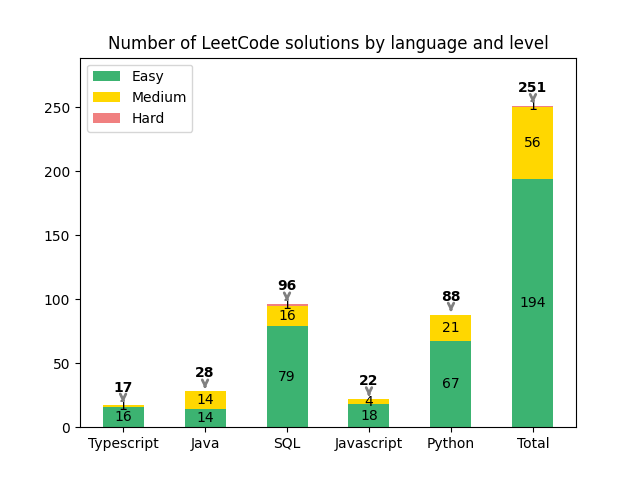
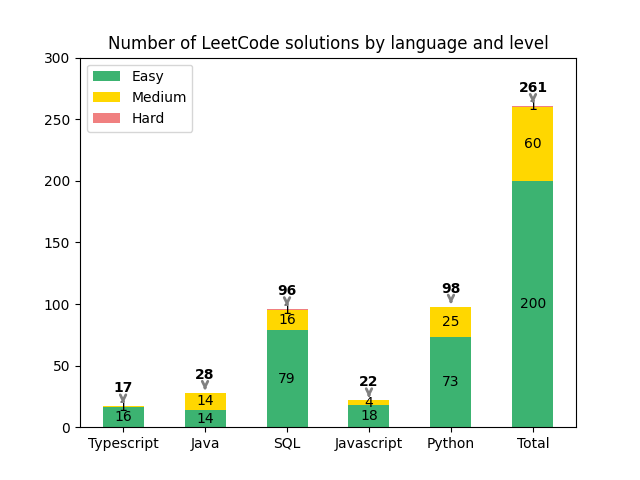
[auto] Update README after merge to main (R.N: 29)
Push commit: 26f0554a840c0408888ab21dfb6f61fbe99cb6fe

Files moved: 7

Workflow: Auto-update README after push to main

Triggered on: push

Run Link: https://github.com/e0406370/reetkode/actions/runs/15275611887

diff --git a/README.md b/README.md
@@ -28,6 +28,7 @@ This README was generated using the following custom-built **Python** scripts: [
 |**77**|🟨 Medium|⚙|[Combinations](https://lcid.cc/77)|<a href="java/lcm_p0077_combinations.java"><img src="icons/java-original.svg" height="25"></a>|
 |**128**|🟨 Medium|⚙|[Longest Consecutive Sequence](https://lcid.cc/128)|<a href="java/lcm_p0128_longest_consecutive_sequence.java"><img src="icons/java-original.svg" height="25"></a>|
 |**136**|🟩 Easy|⚙|[Single Number](https://lcid.cc/136)|<a href="java/lce_p0136_single_number.java"><img src="icons/java-original.svg" height="25"></a>|
+|**151**|🟨 Medium|⚙|[Reverse Words In A String](https://lcid.cc/151)|<a href="python/lcm_p0151_reverse_words_in_a_string.py"><img src="icons/python-original.svg" height="25"></a>|
 |**175**|🟩 Easy|🛢|[Combine Two Tables](https://lcid.cc/175)|<a href="sql/lce_p0175_combine_two_tables_mysql.sql"><img src="icons/mysql-original.svg" height="25"></a> <a href="sql/lce_p0175_combine_two_tables_postgresql.sql"><img src="icons/postgresql-original.svg" height="25"></a>|
 |**176**|🟨 Medium|🛢|[Second Highest Salary](https://lcid.cc/176)|<a href="sql/lcm_p0176_second_highest_salary_mysql.sql"><img src="icons/mysql-original.svg" height="25"></a>|
 |**178**|🟨 Medium|🛢|[Rank Scores](https://lcid.cc/178)|<a href="sql/lcm_p0178_rank_scores_mysql.sql"><img src="icons/mysql-original.svg" height="25"></a>|
@@ -40,13 +41,16 @@ This README was generated using the following custom-built **Python** scripts: [
 |**196**|🟩 Easy|🛢|[Delete Duplicate Emails](https://lcid.cc/196)|<a href="sql/lce_p0196_delete_duplicate_emails_postgresql.sql"><img src="icons/postgresql-original.svg" height="25"></a> <a href="sql/lce_p0196_delete_duplicate_emails_sqlserver.sql"><img src="icons/sqlserver-original.svg" height="25"></a>|
 |**197**|🟩 Easy|🛢|[Rising Temperature](https://lcid.cc/197)|<a href="sql/lce_p0197_rising_temperature_mysql.sql"><img src="icons/mysql-original.svg" height="25"></a> <a href="sql/lce_p0197_rising_temperature_postgresql.sql"><img src="icons/postgresql-original.svg" height="25"></a>|
 |**217**|🟩 Easy|⚙|[Contains Duplicate](https://lcid.cc/217)|<a href="java/lce_p0217_contains_duplicate.java"><img src="icons/java-original.svg" height="25"></a>|
-|**238**|🟨 Medium|⚙|[Product Of Array Except Self](https://lcid.cc/238)|<a href="java/lcm_p0238_product_of_array_except_self.java"><img src="icons/java-original.svg" height="25"></a>|
+|**238**|🟨 Medium|⚙|[Product Of Array Except Self](https://lcid.cc/238)|<a href="java/lcm_p0238_product_of_array_except_self.java"><img src="icons/java-original.svg" height="25"></a> <a href="python/lcm_p0238_product_of_array_except_self.py"><img src="icons/python-original.svg" height="25"></a>|
 |**242**|🟩 Easy|⚙|[Valid Anagram](https://lcid.cc/242)|<a href="java/lce_p0242_valid_anagram.java"><img src="icons/java-original.svg" height="25"></a> <a href="python/lce_p0242_valid_anagram.py"><img src="icons/python-original.svg" height="25"></a>|
 |**271**|🟨 Medium|⚙|[Encode And Decode Strings](https://lcid.cc/271)|<a href="java/lcm_p0271_encode_and_decode_strings.java"><img src="icons/java-original.svg" height="25"></a>|
 |**283**|🟩 Easy|⚙|[Move Zeroes](https://lcid.cc/283)|<a href="python/lce_p0283_move_zeroes.py"><img src="icons/python-original.svg" height="25"></a>|
+|**334**|🟨 Medium|⚙|[Increasing Triplet Subsequence](https://lcid.cc/334)|<a href="python/lcm_p0334_increasing_triplet_subsequence.py"><img src="icons/python-original.svg" height="25"></a>|
+|**345**|🟩 Easy|⚙|[Reverse Vowels Of A String](https://lcid.cc/345)|<a href="python/lce_p0345_reverse_vowels_of_a_string.py"><img src="icons/python-original.svg" height="25"></a>|
 |**347**|🟨 Medium|⚙|[Top K Frequent Elements](https://lcid.cc/347)|<a href="java/lcm_p0347_top_k_frequent_elements.java"><img src="icons/java-original.svg" height="25"></a>|
 |**387**|🟩 Easy|⚙|[First Unique Character String](https://lcid.cc/387)|<a href="python/lce_p0387_first_unique_character_string.py"><img src="icons/python-original.svg" height="25"></a>|
 |**389**|🟩 Easy|⚙|[Find The Difference](https://lcid.cc/389)|<a href="python/lce_p0389_find_the_difference.py"><img src="icons/python-original.svg" height="25"></a>|
+|**443**|🟨 Medium|⚙|[String Compression](https://lcid.cc/443)|<a href="python/lcm_p0443_string_compression.py"><img src="icons/python-original.svg" height="25"></a>|
 |**459**|🟩 Easy|⚙|[Repeated Substring Pattern](https://lcid.cc/459)|<a href="python/lce_p0459_repeated_substring_pattern.py"><img src="icons/python-original.svg" height="25"></a>|
 |**507**|🟩 Easy|⚙|[Perfect Number](https://lcid.cc/507)|<a href="python/lce_p0507_perfect_number.py"><img src="icons/python-original.svg" height="25"></a>|
 |**509**|🟩 Easy|⚙|[Fibonacci Number](https://lcid.cc/509)|<a href="python/lce_p0509_fibonacci_number.py"><img src="icons/python-original.svg" height="25"></a>|
@@ -78,6 +82,7 @@ This README was generated using the following custom-built **Python** scripts: [
 |**1068**|🟩 Easy|🛢|[Product Sales Analysis I](https://lcid.cc/1068)|<a href="sql/lce_p1068_product_sales_analysis_i_postgresql.sql"><img src="icons/postgresql-original.svg" height="25"></a> <a href="sql/lce_p1068_product_sales_analysis_i_sqlserver.sql"><img src="icons/sqlserver-original.svg" height="25"></a>|
 |**1069**|🟩 Easy|🛢|[Product Sales Analysis II](https://lcid.cc/1069)|<a href="sql/lce_p1069_product_sales_analysis_ii_postgresql.sql"><img src="icons/postgresql-original.svg" height="25"></a>|
 |**1070**|🟨 Medium|🛢|[Product Sales Analysis III](https://lcid.cc/1070)|<a href="sql/lcm_p1070_product_sales_analysis_iii_mysql.sql"><img src="icons/mysql-original.svg" height="25"></a>|
+|**1071**|🟩 Easy|⚙|[Greatest Common Divisor Of Strings](https://lcid.cc/1071)|<a href="python/lce_p1071_greatest_common_divisor_of_strings.py"><img src="icons/python-original.svg" height="25"></a>|
 |**1075**|🟩 Easy|🛢|[Project Employees I](https://lcid.cc/1075)|<a href="sql/lce_p1075_project_employees_i_postgresql.sql"><img src="icons/postgresql-original.svg" height="25"></a> <a href="sql/lce_p1075_project_employees_i_sqlserver.sql"><img src="icons/sqlserver-original.svg" height="25"></a>|
 |**1082**|🟩 Easy|🛢|[Sales Analysis I](https://lcid.cc/1082)|<a href="sql/lce_p1082_sales_analysis_i_postgresql.sql"><img src="icons/postgresql-original.svg" height="25"></a>|
 |**1083**|🟩 Easy|🛢|[Sales Analysis II](https://lcid.cc/1083)|<a href="sql/lce_p1083_sales_analysis_ii_postgresql.sql"><img src="icons/postgresql-original.svg" height="25"></a>|
@@ -103,6 +108,7 @@ This README was generated using the following custom-built **Python** scripts: [
 |**1378**|🟩 Easy|🛢|[Replace Employee Id With The Unique Identifier](https://lcid.cc/1378)|<a href="sql/lce_p1378_replace_employee_id_with_the_unique_identifier_sqlserver.sql"><img src="icons/sqlserver-original.svg" height="25"></a>|
 |**1393**|🟨 Medium|🛢|[Capital Gain Loss](https://lcid.cc/1393)|<a href="sql/lcm_p1393_capital_gain_loss_mysql.sql"><img src="icons/mysql-original.svg" height="25"></a>|
 |**1407**|🟩 Easy|🛢|[Top Travellers](https://lcid.cc/1407)|<a href="sql/lce_p1407_top_travellers_mysql.sql"><img src="icons/mysql-original.svg" height="25"></a>|
+|**1431**|🟩 Easy|⚙|[Kids With The Greatest Number Of Candies](https://lcid.cc/1431)|<a href="python/lce_p1431_kids_with_the_greatest_number_of_candies.py"><img src="icons/python-original.svg" height="25"></a>|
 |**1455**|🟩 Easy|⚙|[Check If A Word Occurs As A Prefix Of Any Word In A Sentence](https://lcid.cc/1455)|<a href="java/lce_p1455_check_if_a_word_occurs_as_a_prefix_of_any_word_in_a_sentence.java"><img src="icons/java-original.svg" height="25"></a>|
 |**1484**|🟩 Easy|🛢|[Group Sold Products By The Date](https://lcid.cc/1484)|<a href="sql/lce_p1484_group_sold_products_by_the_date_mysql.sql"><img src="icons/mysql-original.svg" height="25"></a>|
 |**1491**|🟩 Easy|⚙|[Average Salary Excluding The Minimum And Maximum Salary](https://lcid.cc/1491)|<a href="python/lce_p1491_average_salary_excluding_the_minimum_and_maximum_salary.py"><img src="icons/python-original.svg" height="25"></a>|
@@ -209,6 +215,7 @@ This README was generated using the following custom-built **Python** scripts: [
 |**3160**|🟨 Medium|⚙|[Find The Number Of Distinct Colors Among The Balls](https://lcid.cc/3160)|<a href="python/lcm_p3160_find_the_number_of_distinct_colors_among_the_balls.py"><img src="icons/python-original.svg" height="25"></a>|
 |**3162**|🟩 Easy|⚙|[Find The Number Of Good Pairs I](https://lcid.cc/3162)|<a href="python/lce_p3162_find_the_number_of_good_pairs_i.py"><img src="icons/python-original.svg" height="25"></a>|
 |**3163**|🟨 Medium|⚙|[String Compression III](https://lcid.cc/3163)|<a href="java/lcm_p3163_string_compression_iii.java"><img src="icons/java-original.svg" height="25"></a>|
+|**3173**|🟩 Easy|⚙|[Bitwise Or Of Adjacent Elements](https://lcid.cc/3173)|<a href="python/lce_p3173_bitwise_or_of_adjacent_elements.py"><img src="icons/python-original.svg" height="25"></a>|
 |**3174**|🟩 Easy|⚙|[Clear Digits](https://lcid.cc/3174)|<a href="python/lce_p3174_clear_digits.py"><img src="icons/python-original.svg" height="25"></a>|
 |**3220**|🟨 Medium|🛢|[Odd And Even Transactions](https://lcid.cc/3220)|<a href="sql/lcm_p3220_odd_and_even_transactions_mysql.sql"><img src="icons/mysql-original.svg" height="25"></a>|
 |**3223**|🟨 Medium|⚙|[Minimum Length Of String After Operations](https://lcid.cc/3223)|<a href="python/lcm_p3223_minimum_length_of_string_after_operations.py"><img src="icons/python-original.svg" height="25"></a>|
@@ -219,10 +226,12 @@ This README was generated using the following custom-built **Python** scripts: [
 |**3452**|🟩 Easy|⚙|[Sum Of Good Numbers](https://lcid.cc/3452)|<a href="python/lce_p3452_sum_of_good_numbers.py"><img src="icons/python-original.svg" height="25"></a>|
 |**3461**|🟩 Easy|⚙|[Check If Digits Are Equal In String After Operations I](https://lcid.cc/3461)|<a href="python/lce_p3461_check_if_digits_are_equal_in_string_after_operations_i.py"><img src="icons/python-original.svg" height="25"></a>|
 |**3467**|🟩 Easy|⚙|[Transform Array By Parity](https://lcid.cc/3467)|<a href="python/lce_p3467_transform_array_by_parity.py"><img src="icons/python-original.svg" height="25"></a>|
+|**3491**|🟩 Easy|⚙|[Phone Number Prefix](https://lcid.cc/3491)|<a href="python/lce_p3491_phone_number_prefix.py"><img src="icons/python-original.svg" height="25"></a>|
 |**3492**|🟩 Easy|⚙|[Maximum Containers On A Ship](https://lcid.cc/3492)|<a href="python/lce_p3492_maximum_containers_on_a_ship.py"><img src="icons/python-original.svg" height="25"></a>|
 |**3498**|🟩 Easy|⚙|[Reverse Degree Of A String](https://lcid.cc/3498)|<a href="python/lce_p3498_reverse_degree_of_a_string.py"><img src="icons/python-original.svg" height="25"></a>|
 |**3512**|🟩 Easy|⚙|[Minimum Operations To Make Array Sum Divisible By K](https://lcid.cc/3512)|<a href="python/lce_p3512_minimum_operations_to_make_array_sum_divisible_by_k.py"><img src="icons/python-original.svg" height="25"></a>|
 |**3527**|🟨 Medium|⚙|[Find The Most Common Response](https://lcid.cc/3527)|<a href="python/lcm_p3527_find_the_most_common_response.py"><img src="icons/python-original.svg" height="25"></a>|
 |**3536**|🟩 Easy|⚙|[Maximum Product Of Two Digits](https://lcid.cc/3536)|<a href="python/lce_p3536_maximum_product_of_two_digits.py"><img src="icons/python-original.svg" height="25"></a>|
 |**3541**|🟩 Easy|⚙|[Find Most Frequent Vowel And Consonant](https://lcid.cc/3541)|<a href="python/lce_p3541_find_most_frequent_vowel_and_consonant.py"><img src="icons/python-original.svg" height="25"></a>|
+|**3550**|🟩 Easy|⚙|[Smallest Index With Digit Sum Equal To Index](https://lcid.cc/3550)|<a href="python/lce_p3550_smallest_index_with_digit_sum_equal_to_index.py"><img src="icons/python-original.svg" height="25"></a>|
   
